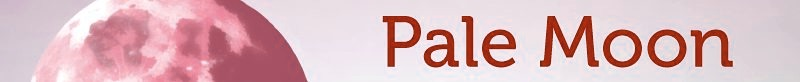
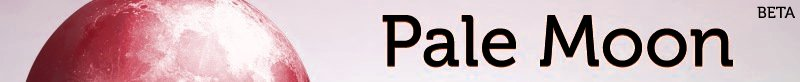
Goanna beta addition

diff --git a/WIP/index.html b/WIP/index.html
@@ -3,15 +3,23 @@
 
 
 
+
+
+  
   <meta content="text/html; charset=ISO-8859-1" http-equiv="content-type">
+
+  
   <meta http-equiv="X-UA-Compatible" content="IE=9; IE=8; IE=7; IE=EDGE"><title>Pale Moon - Works in Progress</title>
+  
+
+  
   
   <link rel="stylesheet" type="text/css" media="screen,projection" href="pagestyle.css"></head><body style="color: rgb(0, 0, 0);" alink="red" link="#cc0000" vlink="#660000">
 <table class="maintable" align="center" bgcolor="#f9f9f9" border="0" cellpadding="0" cellspacing="0">
 
   <tbody>
     <tr>
-      <th class="maintableheader"><a href="http://www.palemoon.org/"><img style="border: 0px solid ; width: 800px; height: 82px;" alt="The Pale Moon Project - Custom-built and optimized Firefox-based browser for Windows Operating Systems" src="pagebanner.jpg" hspace="0" vspace="0"></a><br>
+      <th class="maintableheader"><a href="http://www.palemoon.org/"><img style="border: 0px solid ; width: 800px; height: 82px;" alt="The Pale Moon Project - Custom-built and optimized Firefox-based browser for Windows Operating Systems" src="images/pagebanner.jpg" hspace="0" vspace="0"></a><br>
       </th>
     </tr>
     <tr>
@@ -19,7 +27,7 @@
 Back]</a><br>
       <h1>Pale Moon Works in Progress<br>
       </h1>
-      <h3><span style="color: red; text-decoration: blink;">Important:</span>
+      <h3><a name="Important:_your_own_risk._They_may_be_un"></a><span class="blink" style="color: red;">Important:</span>
 these builds for testing purposes only and are at all times used at
 your own risk. They may be unstable and may
 crash, do unexpected things, erase your files
@@ -28,32 +36,78 @@ or set your hair on fire. Do NOT expect release stability from these! <br>
 That being said, if a file is here for more than a few days, it's
 likely stable enough for daily use.<br>
       <br>
-These files are mainly here for beta testing before release, or to test out new and/or changed
+These files are mainly here for beta testing before release, or to test
+out new and/or changed
 functionality in the browser, as well as tryouts of other Mozilla
-packages or for other Operating Systems. <br>
-      <span style="font-weight: bold; text-decoration: underline;">Public
-for the curious only.</span> You will
-need <a href="http://www.7-zip.org/" target="_blank">7-zip</a> to
-unpack .7z files!<br>
+packages or for other Operating Systems, or work-in-progress public
+milestone betas. <span style="font-weight: bold; text-decoration: underline;"></span><br>
       <br>
-If you wish to give feedback to these works-in-progress, please USE THE
-      <a href="http://forum.palemoon.org/">FORUM</a>.<br>
-<ul>
-
+If you wish to give feedback to these works-in-progress, please use the
+forum (see below for links to dedicated threads).<br>
+      <ul>
         
-        <li><span style="font-style: italic;">No works in progress at this time.</span><br>
-          <span style="text-decoration: line-through; color: rgb(153, 0, 0);"></span></li>
+        <li>
+          <h3><span>Pale Moon 26.0.0 "Goanna", public beta 1<img style="border: 0px solid ; width: 160px; height: 160px; float: right;" alt="Logo" title="Goanna" src="images/g3566.png" hspace="3" vspace="3"><br>
+          </span></h3>
+This is the first public beta of the new milestone release. Considering
+the large amount of changes involved, there will be some issues with
+websites, although at the moment they seem to be mostly centered around
+useragent sniffing (Especially Google will complain).<br>
+          <br>
+This beta adds support for WebP, has faster memory handling on current Windows operating systems (at the
+expense of some increased memory use), and should handle particularly
+poorly-designed and/or image-heavy sites (e.g. Flickr) better, as main (non-inclusive)
+improvements to the browser.<br>
+          <br>
+          <span style="color: rgb(204, 0, 0);"><big style="font-weight: bold;">This
+beta's feedback stage has now been closed. A new beta will be released
+soon, implementing this feedback and other improvements.</big><br>
+          <br>
+To provide feedback on
+this browser, please use the <a href="http://forum.palemoon.org/viewtopic.php?f=5&amp;t=9060" target="_blank">dedicated support topic on the forum</a>.
+Unfortunately we cannot accept any feedback through other channels
+because it would result in utter chaos for us. So please, do <span style="font-weight: bold;">not</span> use
+e-mail, do <span style="font-weight: bold;">not</span> use social media, do <span style="font-weight: bold;">not</span> use IRC to provide feedback to this beta, and
+help keep things organized for us! :)</span><br>
+          <br>
+          <span style="font-weight: bold;">Known issues on sites:</span></li>
+
+        <ul>
+          <li>Google
+does not recognize Goanna and will complain and/or offer limited
+features and/or switch to "basic HTML" in some of their services
+(GMail, YouTube, Google Docs, etc.). This seems to be
+caused by useragent sniffing they do (tisk tisk, Google). Feel free to
+let Google know about the browser and ask them to support it.</li>
+          <li>vBulletin-based fora don't seem to like this browser,
+resulting in non-functional editing areas and toolbars. We're trying to
+figure out exactly what is causing these issues, but at first glance it
+seems to also be a useragent issue.</li>
+          <li>FaceBook seems to offer limited functionality (unsizeable
+comment boxes, for example) - once more determined to be a useragent
+sniffing issue, and this beta not having a working useragent override
+in place for them. Here, too, feel free to contact FaceBook support,
+and let them know about the browser and ask them to support it.
+Unfortunately their rate of responsiveness so far for Pale Moon support
+has been very low.</li>
+          <li>Some extensions that check appInfo.platformVersion may be
+dysfunctional, because it's currently exposed as "1.0" to reflect the
+1.0 version of the Goanna platform. We do plan to work around this but
+it's not implemented in this first beta yet.<br>
+          </li>
 
 
-
-
+          <li>If you find other major issues, please let us know so we
+can add them here.<br>
+            <h3><span></span><span></span></h3>
+          </li>
         </ul>
+Download for Win x86, Win x64, Linux x86 and Linux x64: <a href="ftp://publicbeta:get@ftp.palemoon.org/" target="_blank">ftp://publicbeta:get@ftp.palemoon.org/</a>
+      </ul>
       <br>
 <!-- <a href="http://www.palemoon.org/">Nothing here at the moment</a><br>-->
       <br>
       <br>
-      <br>
-      <a href="http://www.palemoon.org/">[&lt;-- back]</a><br>
       </td>
     </tr>
   </tbody>
@@ -71,6 +125,7 @@ var sc_partition=54;
 var sc_click_stat=1; 
 var sc_security="63f07cc4"; 
 </script>
-<script type="text/javascript" src="http://www.statcounter.com/counter/counter.js"></script><noscript><div class="statcounter"><a title="myspace views counter" href="http://www.statcounter.com/myspace/" target="_blank"><img class="statcounter" src="http://c.statcounter.com/5179423/0/63f07cc4/1/" alt="counter"></a></div>
+<script type="text/javascript" src="http://www.statcounter.com/counter/counter.js"></script><noscript>
+<div class="statcounter"><a title="myspace views counter" href="http://www.statcounter.com/myspace/" target="_blank"><img class="statcounter" src="http://c.statcounter.com/5179423/0/63f07cc4/1/" alt="counter"></a></div>
 </noscript><!-- End of StatCounter Code -->
 </body></html>

diff --git a/WIP/pagestyle.css b/WIP/pagestyle.css
@@ -115,3 +115,16 @@ text-decoration: none;
 border-radius: 9px; 
 -moz-border-radius: 9px;
 }
+
+blink, .blink {
+  -webkit-animation: blink 1s step-end infinite;
+  animation: blink 1s step-end infinite;
+}
+
+@-webkit-keyframes blink {
+  67% { opacity: 0 }
+}
+
+@keyframes blink {
+  67% { opacity: 0 }
+}
